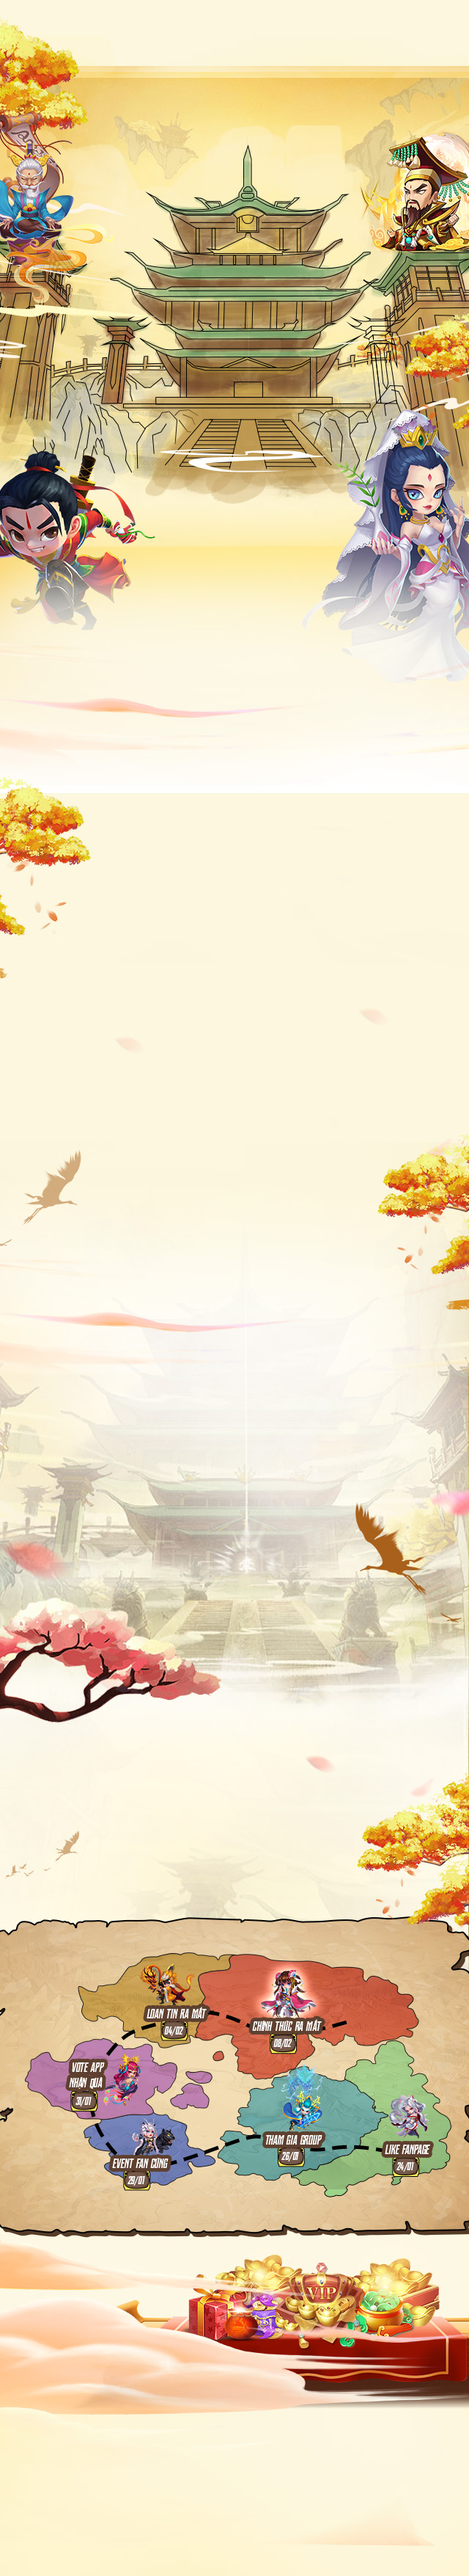
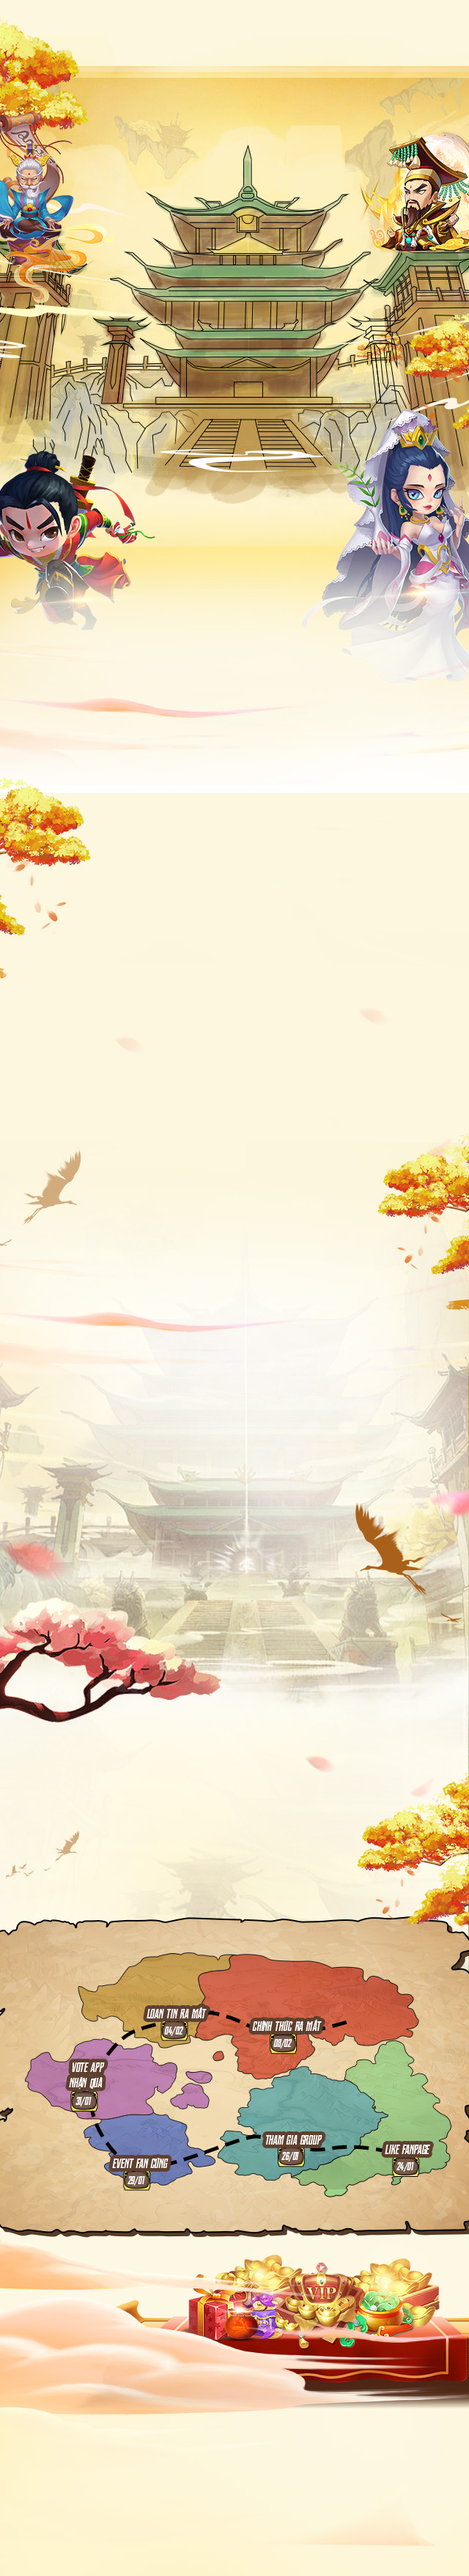
Finnish landing

diff --git a/pages/index.tsx b/pages/index.tsx
@@ -460,7 +460,7 @@ const Index = () => {
               src="/images/lo-trinh-ra-mat.png"
               width={493}
               height={292}
-              className="absolute transition-all hover:animate-headShake hover:saturate-150 md:top-[35vw] md:left-[4vw] md:h-[15.208vw] md:w-[25.677vw]"
+              className="absolute top-[35vw] left-[23vw] w-[54vw] transition-all hover:animate-headShake hover:saturate-150 md:top-[35vw] md:left-[4vw] md:h-[15.208vw] md:w-[25.677vw]"
               alt={'Lộ trình ra mắt'}
             />
 
@@ -469,7 +469,7 @@ const Index = () => {
               src="/images/mapicon-1.png"
               width={158}
               height={162}
-              className="absolute animate-twBounce transition-all animate-infinite hover:saturate-150 md:top-[31.8vw] md:left-[65.6vw] md:h-[8.438vw] md:w-[8.229vw]"
+              className="absolute animate-twBounce transition-all animate-infinite hover:saturate-150 w-[15vw] top-[83vw] left-[53vw] md:top-[31.8vw] md:left-[65.6vw] md:h-[8.438vw] md:w-[8.229vw]"
               alt={'Lộ trình ra mắt'}
             />
 
@@ -478,7 +478,7 @@ const Index = () => {
               src="/images/mapicon-2.png"
               width={132}
               height={95}
-              className="absolute animate-pulse transition-all animate-infinite hover:saturate-150 md:top-[33vw] md:left-[52vw] md:h-[4.94792vw] md:w-[6.875vw]"
+              className="absolute animate-pulse transition-all animate-infinite hover:saturate-150 w-[13vw] top-[85vw] left-[28vw] md:top-[33vw] md:left-[52vw] md:h-[4.94792vw] md:w-[6.875vw]"
               alt={'Lộ trình ra mắt'}
             />
 
@@ -487,7 +487,7 @@ const Index = () => {
               src="/images/mapicon-3.png"
               width={88}
               height={121}
-              className="absolute animate-pulse transition-all animate-infinite hover:saturate-150 md:top-[44.5vw] md:left-[48.1vw] md:h-[6.30208vw] md:w-[4.58333vw]"
+              className="absolute animate-pulse transition-all animate-infinite hover:saturate-150 w-[9vw] top-[104vw] left-[22vw] md:top-[44.5vw] md:left-[48.1vw] md:h-[6.30208vw] md:w-[4.58333vw]"
               alt={'Lộ trình ra mắt'}
             />
 
@@ -496,7 +496,7 @@ const Index = () => {
               src="/images/mapicon-4.png"
               width={99}
               height={91}
-              className="absolute animate-pulse transition-all animate-infinite hover:saturate-150 md:top-[51vw] md:left-[50.1vw] md:h-[5.15625vw] md:w-[4.73958vw]"
+              className="absolute animate-pulse transition-all animate-infinite hover:saturate-150 w-[9vw] top-[118vw] left-[26vw] md:top-[51vw] md:left-[50.1vw] md:h-[5.15625vw] md:w-[4.73958vw]"
               alt={'Lộ trình ra mắt'}
             />
             <Image
@@ -504,7 +504,7 @@ const Index = () => {
               src="/images/mapicon-5.png"
               width={98}
               height={150}
-              className="absolute animate-pulse transition-all animate-infinite hover:saturate-150 md:top-[45vw] md:left-[68.1vw] md:h-[7.8125vw] md:w-[5.10417vw]"
+              className="absolute animate-pulse transition-all animate-infinite hover:saturate-150 w-[9vw] top-[107vw] left-[59vw] md:top-[45vw] md:left-[68.1vw] md:h-[7.8125vw] md:w-[5.10417vw]"
               alt={'Lộ trình ra mắt'}
             />
             <Image
@@ -512,7 +512,7 @@ const Index = () => {
               src="/images/mapicon-6.png"
               width={93}
               height={103}
-              className="absolute animate-pulse transition-all animate-infinite hover:saturate-150 md:top-[49.1vw] md:left-[81.1vw] md:h-[5.36458vw] md:w-[4.84375vw]"
+              className="absolute animate-pulse transition-all animate-infinite hover:saturate-150 w-[9vw] top-[113vw] left-[82vw] md:top-[49.1vw] md:left-[81.1vw] md:h-[5.36458vw] md:w-[4.84375vw]"
               alt={'Lộ trình ra mắt'}
             />
           </div>
